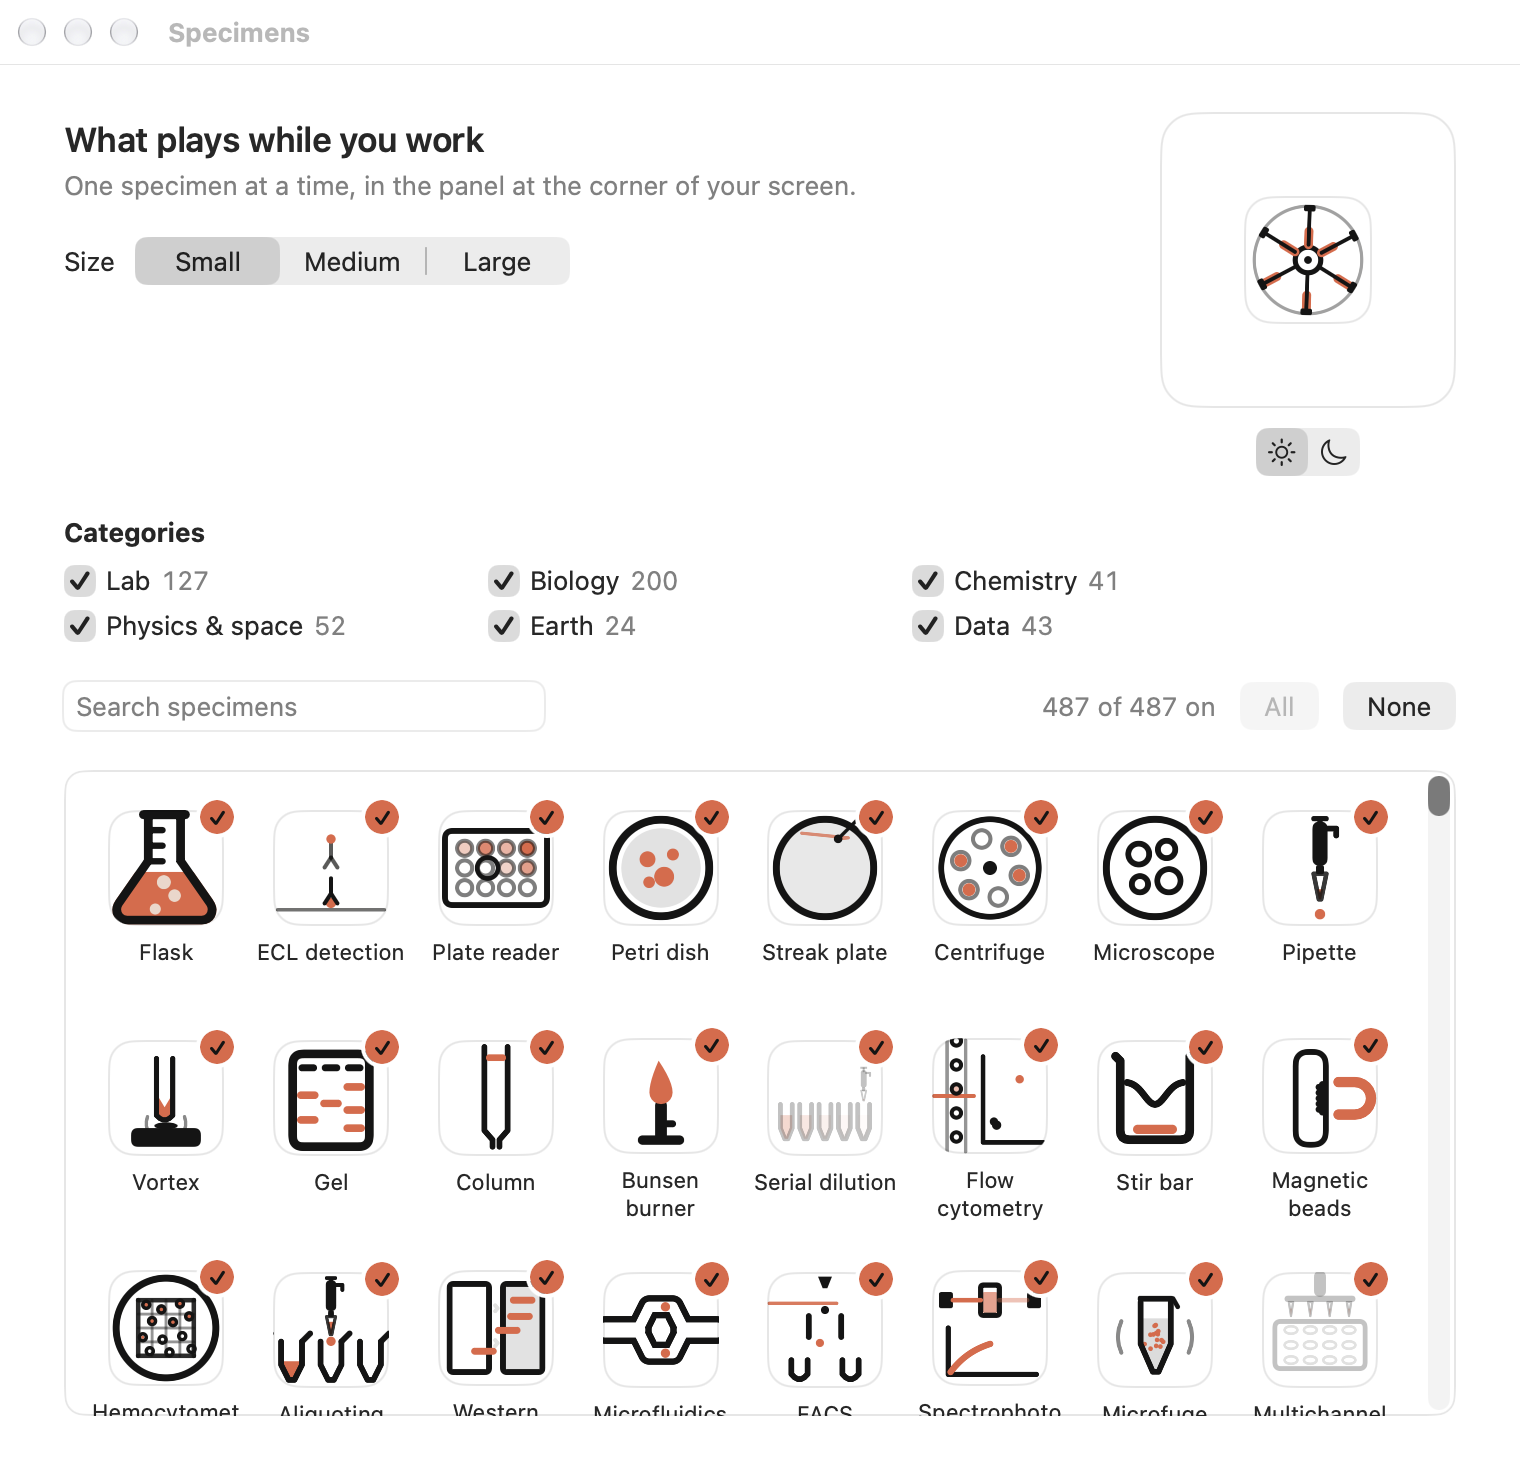
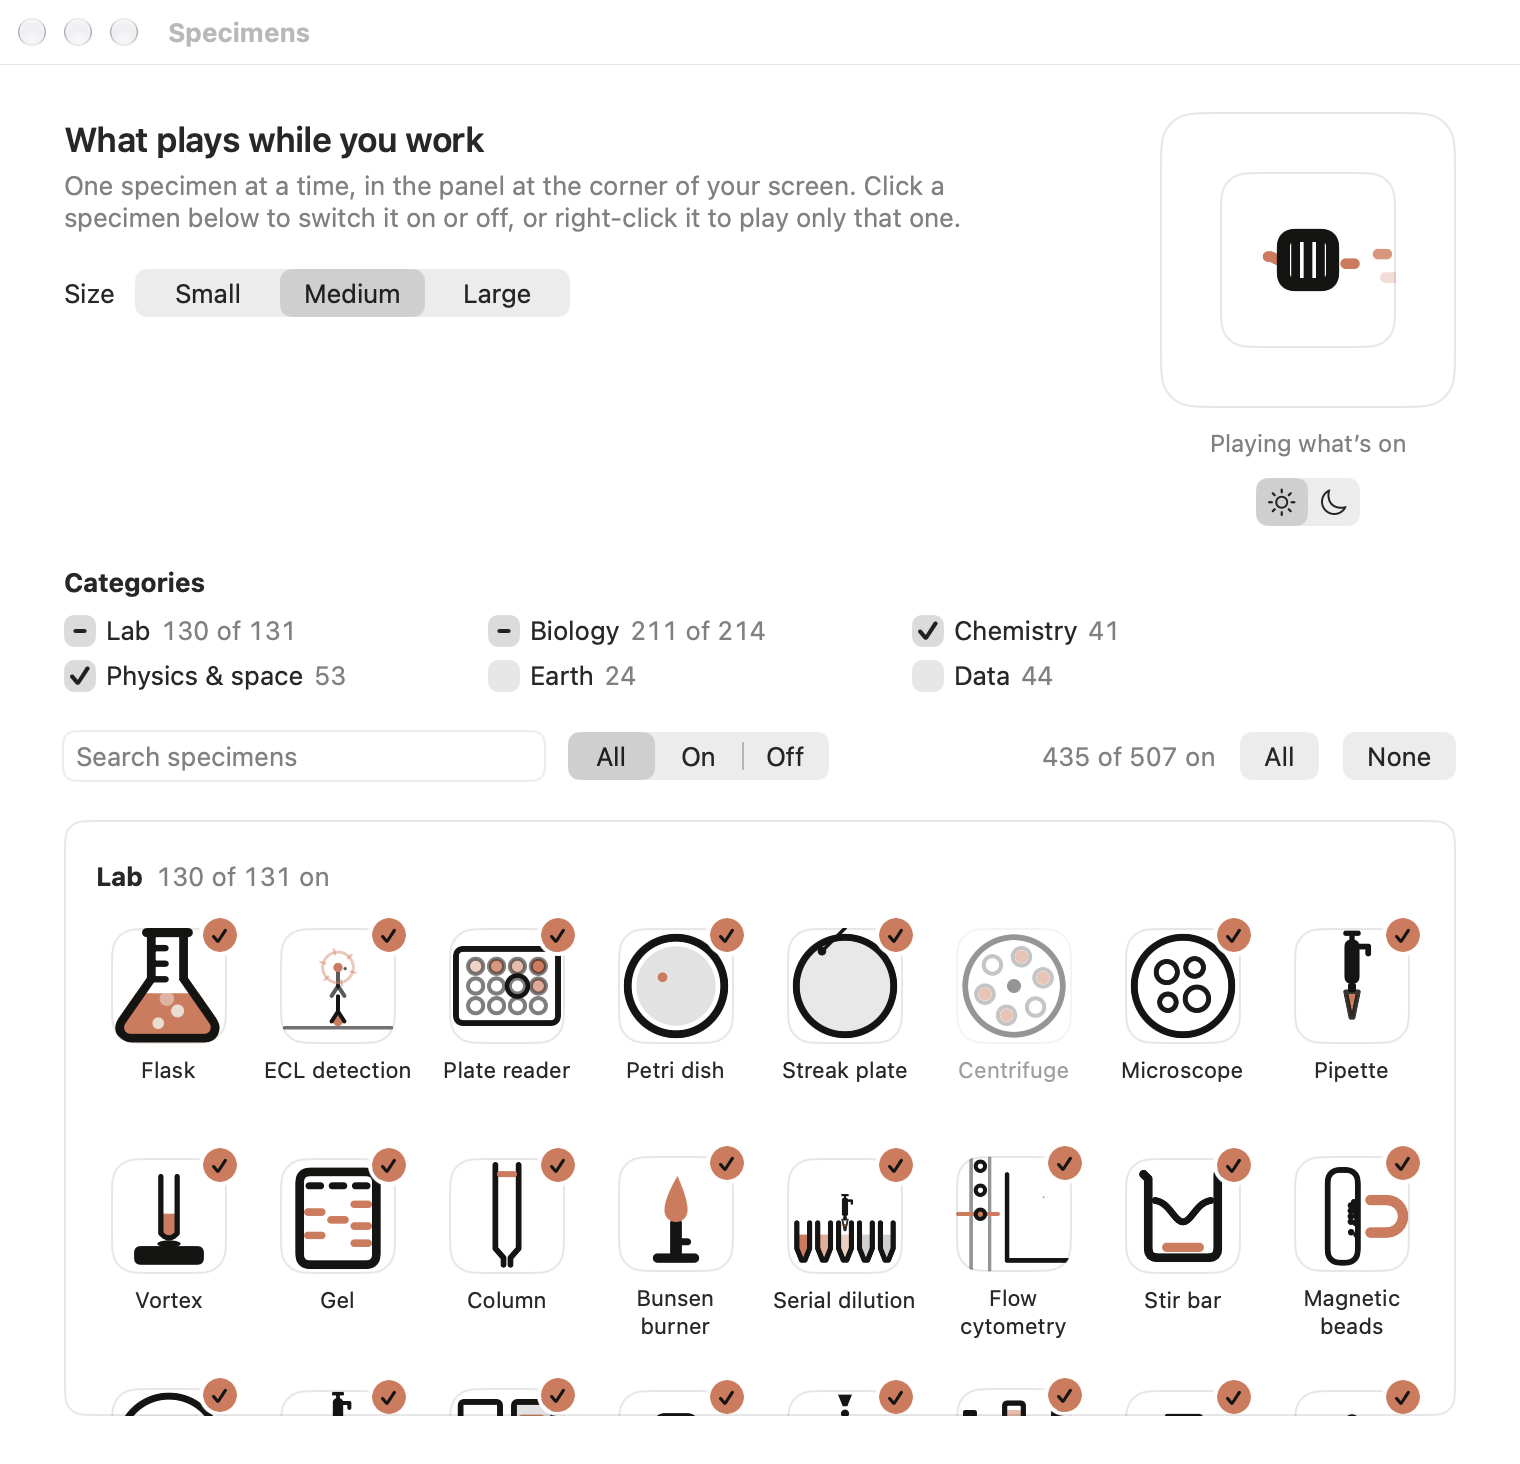
Download alert finds Bench's window from the background; new Specimens screenshot

diff --git a/Sources/Bench/Web/Downloads.swift b/Sources/Bench/Web/Downloads.swift
@@ -75,8 +75,13 @@ final class Downloads: NSObject, WKDownloadDelegate {
         alert.alertStyle = .warning
         alert.messageText = name.map { "Couldn’t download “\($0)”" } ?? "Couldn’t download the file"
         alert.informativeText = error.localizedDescription
-        if let window = NSApp.mainWindow ?? NSApp.keyWindow {
+        // While Bench is in the background there is no main window, but the
+        // window the download came from is still there: the sheet waits on
+        // it, and the Dock icon bounces once to say so.
+        let window = NSApp.mainWindow ?? NSApp.windows.first { $0.isVisible && $0.canBecomeMain }
+        if let window {
             alert.beginSheetModal(for: window)
+            if !NSApp.isActive { NSApp.requestUserAttention(.informationalRequest) }
         } else {
             alert.runModal()
         }

diff --git a/README.md b/README.md
@@ -64,7 +64,7 @@ dark. Hover a specimen to see it play big. Tired of the one playing right
 now? Right-click the panel and choose Don't Play. The panel can sit in any
 corner of your screen: Settings → General → Corner.
 
-<img src="docs/scene-picker.png" width="520" alt="Settings, Specimens tab: a size picker, a checkbox per category and a grid of specimens to choose from">
+<img src="docs/scene-picker.png" width="520" alt="Settings, Specimens tab: a size picker, a checkbox per category (Lab 130 of 131, Biology 211 of 214), a search field with an All, On and Off filter, and a grid of specimens under a Lab heading, each with a clay check when on">
 
 ## Install
 
